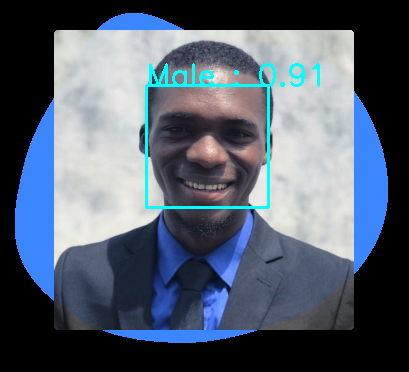
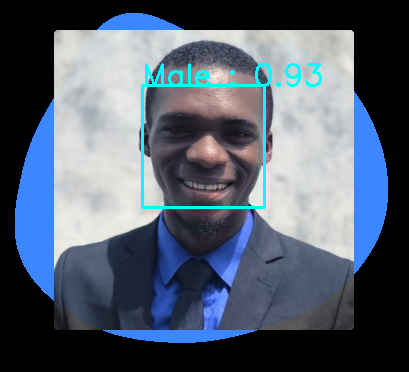
Updated README.md

Changed region(s): [[0.3227, 0.1478, 0.5281, 0.5618], [0.6161, 0.1478, 0.7922, 0.5618], [0.5575, 0.1774, 0.5868, 0.2366]]

diff --git a/templates/gender.html b/templates/gender.html
@@ -1,13 +1,13 @@
 {% extends 'base.html' %} {% block bodyblock %}
 
 <div class="container">
-    <h3>Welcome to the Gender Classification</h3>
+    <h3>Welcome to the Gender Classification Page.</h3>
 </div>
 
 <div class="container">
     <br>
     <form action="#" method="post" enctype="multipart/form-data">
-        <label for="upload">Pease upload an image to predict your gender: </label> <br><br>
+        <label for="upload">Please upload an image to predict your gender: </label> <br><br>
         <input type="file" id="upload" name="image" required="true">
         <input type="submit" value="See Prediction">
     </form>

diff --git a/README.md b/README.md
@@ -1,2 +1,2 @@
 # Face Recognition Web Application
-![Optional Text](./images/phyta.png)
+![Optional Text](./images/mua.png)
